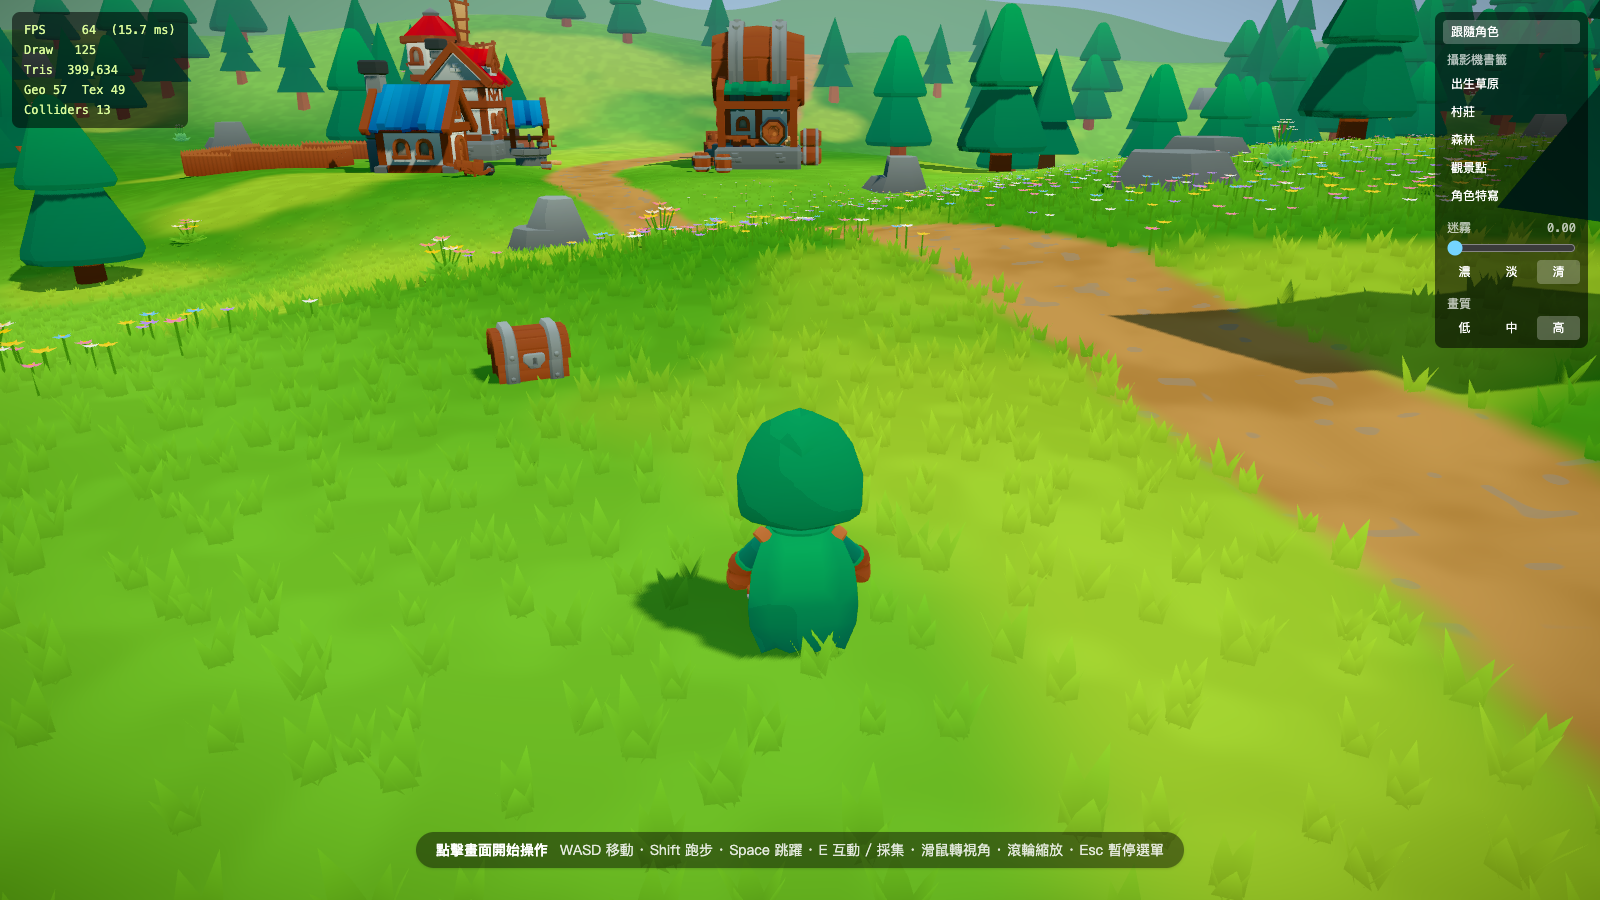
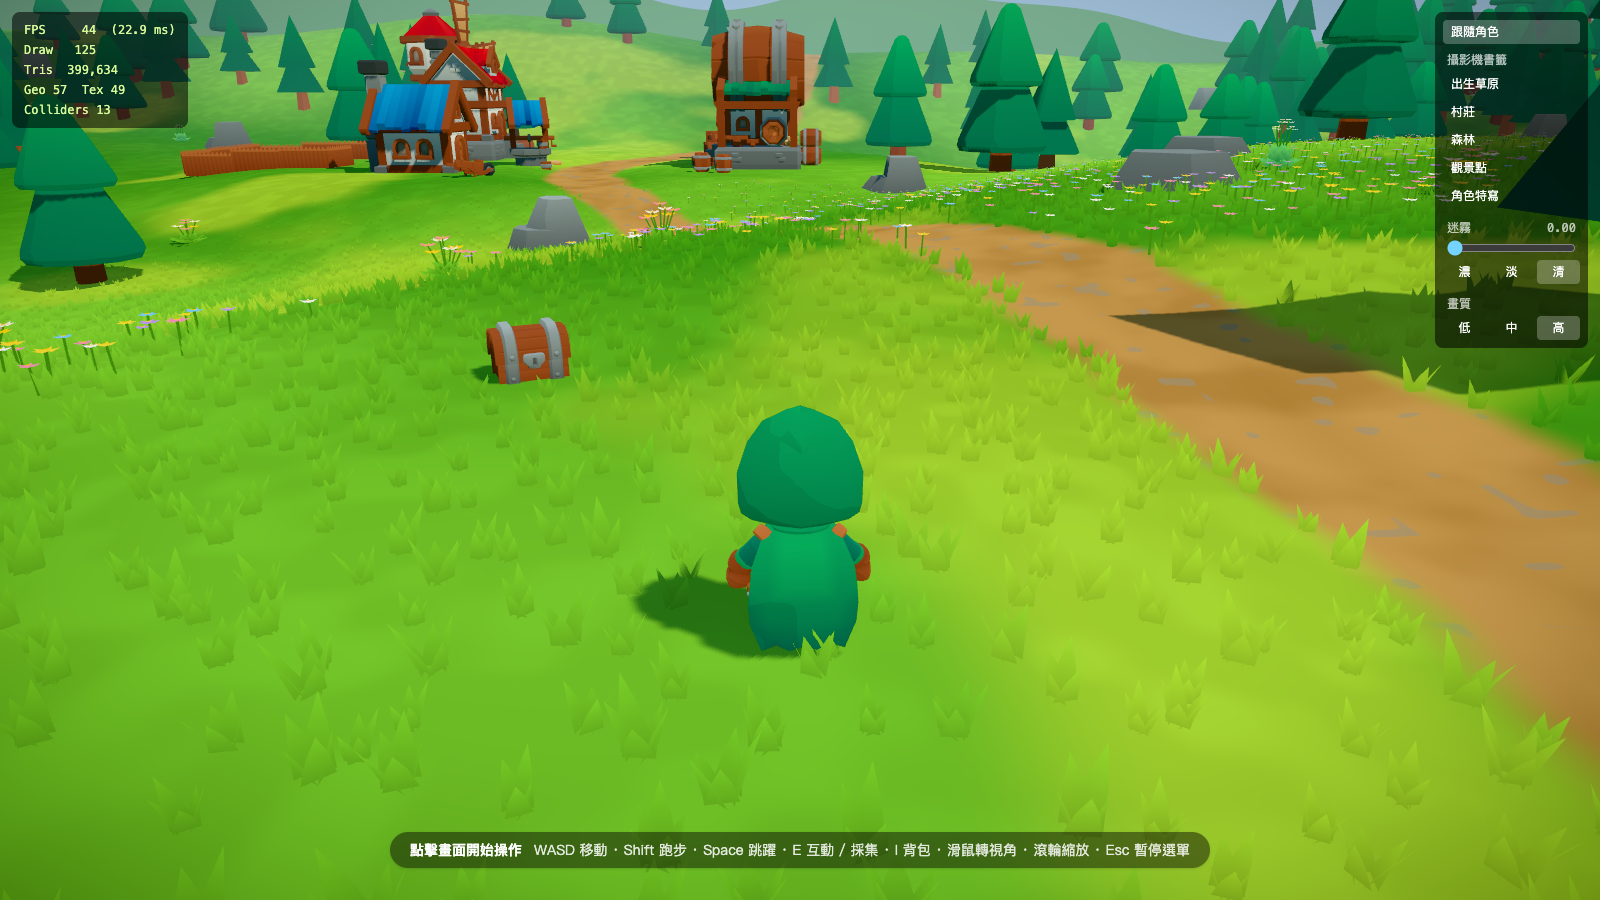
任務 2B：背包介面
- I / Tab 開關背包（依按鍵設定），Esc 關閉且不觸發暫停
- 24 格、圖示、數量與物品說明；開啟時釋放滑鼠、角色停止
- 端對端與截圖

diff --git a/src/ui/InventoryPanel.tsx b/src/ui/InventoryPanel.tsx
@@ -1,0 +1,126 @@
+import { useEffect, useState } from 'react';
+import type { InventorySlot } from '@/game-core/inventory/inventory';
+import { t } from '@/game/i18n';
+import { input } from '@/game/input/inputManager';
+import { currentScreen, useGameStore } from '@/game/state/gameStore';
+import { useGameStateStore } from '@/game/state/gameStateStore';
+import { useUiStore } from '@/game/state/uiStore';
+import { worldDataResult } from '@/game/worldData';
+import { ItemIcon } from './ItemIcon';
+
+const items = worldDataResult.ok ? worldDataResult.data.items : new Map();
+
+/**
+ * 背包（規格 6.3）：格子、圖示、數量、說明。I / Tab（可重新配置）開關，Esc 也可關閉。
+ * 開啟時釋放滑鼠、角色停止移動（isModalOpen）；只讀權威狀態，不直接修改背包。
+ */
+export function InventoryPanel() {
+  const open = useUiStore((s) => s.inventoryOpen);
+  const playing = useGameStore((s) => s.screen === 'playing');
+
+  useEffect(() => {
+    const onKey = (e: KeyboardEvent) => {
+      if (e.repeat) return;
+      const ui = useUiStore.getState();
+      if (ui.inventoryOpen && (e.code === 'Escape' || input.isBound(e.code, 'inventory'))) {
+        // 這個 Esc 只用來關背包，不要再讓暫停選單收到
+        e.stopImmediatePropagation();
+        ui.setInventoryOpen(false);
+        // 鍵盤事件屬於使用者手勢，可直接重新鎖定滑鼠回到遊玩
+        input.requestPointerLock();
+        return;
+      }
+      if (!input.isBound(e.code, 'inventory') || currentScreen() !== 'playing' || ui.message) return;
+      ui.setInventoryOpen(true);
+      if (document.pointerLockElement) document.exitPointerLock();
+    };
+    window.addEventListener('keydown', onKey);
+    return () => window.removeEventListener('keydown', onKey);
+  }, []);
+
+  // 暫停或回到主選單時關閉
+  useEffect(() => {
+    if (!playing) useUiStore.getState().setInventoryOpen(false);
+  }, [playing]);
+
+  if (!open) return null;
+  return <InventoryWindow />;
+}
+
+function InventoryWindow() {
+  const slots = useGameStateStore((s) => s.state.inventory.slots);
+  const [selected, setSelected] = useState<number | null>(null);
+  const close = () => useUiStore.getState().setInventoryOpen(false);
+  // 預設選取第一個有物品的格子
+  const index = selected ?? slots.findIndex((s) => s !== null);
+  const slot = index >= 0 ? (slots[index] ?? null) : null;
+  const def = slot ? items.get(slot.itemId) : undefined;
+
+  return (
+    <div className="absolute inset-0 flex items-center justify-center bg-black/25" onClick={close}>
+      <div
+        role="dialog"
+        aria-labelledby="inventory-title"
+        data-testid="inventory"
+        onClick={(e) => e.stopPropagation()}
+        className="flex gap-5 rounded-2xl border-4 border-amber-200 bg-amber-50 p-5 text-amber-950 shadow-2xl"
+      >
+        <div>
+          <h2 id="inventory-title" className="mb-3 text-xl font-bold">
+            {t('inventory.title')}
+          </h2>
+          <div className="grid grid-cols-6 gap-2">
+            {slots.map((s, i) => (
+              <SlotButton key={i} slot={s} active={i === index && s !== null} onSelect={() => setSelected(i)} />
+            ))}
+          </div>
+        </div>
+        <div className="flex w-56 flex-col" data-testid="inventory-detail">
+          {def && slot ? (
+            <>
+              <ItemIcon icon={def.icon} className="mx-auto mt-8 h-24 w-24" />
+              <h3 className="mt-3 text-center text-lg font-bold">{t(def.nameKey)}</h3>
+              <p className="text-center text-sm opacity-70">
+                {t(`inventory.category.${def.category}`)} · {t('inventory.owned')} {slot.count}
+              </p>
+              <p className="mt-3 text-sm leading-6">{t(def.descKey)}</p>
+            </>
+          ) : (
+            <p className="mt-16 text-center text-sm whitespace-pre-line opacity-60">{t('inventory.empty')}</p>
+          )}
+          <div className="mt-auto flex items-center justify-end gap-3 pt-4">
+            <span className="text-xs opacity-60">{t('inventory.closeHint')}</span>
+            <button type="button" onClick={close} className="rounded-full bg-amber-500 px-5 py-1.5 font-bold text-white hover:bg-amber-600">
+              {t('inventory.close')}
+            </button>
+          </div>
+        </div>
+      </div>
+    </div>
+  );
+}
+
+function SlotButton({ slot, active, onSelect }: { slot: InventorySlot; active: boolean; onSelect: () => void }) {
+  const def = slot ? items.get(slot.itemId) : undefined;
+  return (
+    <button
+      type="button"
+      data-testid="inventory-slot"
+      data-item={slot?.itemId ?? ''}
+      disabled={!slot}
+      onClick={onSelect}
+      onMouseEnter={slot ? onSelect : undefined}
+      title={def ? t(def.nameKey) : undefined}
+      className={`relative h-16 w-16 rounded-xl border-2 ${
+        active ? 'border-amber-500 bg-amber-200' : 'border-amber-200 bg-white/70'
+      } ${slot ? 'hover:border-amber-400' : ''}`}
+    >
+      {def && slot && (
+        <>
+          <ItemIcon icon={def.icon} className="absolute inset-1.5" />
+          <span className="absolute right-1 bottom-0.5 text-sm font-bold text-amber-950 [text-shadow:0_0_3px_white]">{slot.count}</span>
+        </>
+      )}
+    </button>
+  );
+}

diff --git a/src/game/state/uiStore.ts b/src/game/state/uiStore.ts
@@ -15,17 +15,21 @@ type UiState = {
   interactTarget: InteractTarget | null;
   message: UiMessage | null;
   toasts: readonly Toast[];
+  /** 背包視窗（規格 6.3） */
+  inventoryOpen: boolean;
   setInteractTarget: (target: InteractTarget | null) => void;
   showMessage: (message: UiMessage) => void;
   closeMessage: () => void;
   pushToast: (toast: Omit<Toast, 'id'>) => void;
   dismissToast: (id: number) => void;
+  setInventoryOpen: (open: boolean) => void;
 };
 
 export const useUiStore = create<UiState>((set, get) => ({
   interactTarget: null,
   message: null,
   toasts: [],
+  inventoryOpen: false,
   setInteractTarget: (target) => {
     if (get().interactTarget?.id === target?.id) return;
     set({ interactTarget: target });
@@ -34,9 +38,11 @@ export const useUiStore = create<UiState>((set, get) => ({
   closeMessage: () => set({ message: null }),
   pushToast: (toast) => set({ toasts: [...get().toasts, { ...toast, id: nextToastId++ }].slice(-MAX_TOASTS) }),
   dismissToast: (id) => set({ toasts: get().toasts.filter((t) => t.id !== id) }),
+  setInventoryOpen: (inventoryOpen) => set({ inventoryOpen }),
 }));
 
 /** 有任何會擋住遊玩的視窗開啟中（角色停止接受移動輸入、釋放滑鼠） */
 export function isModalOpen(): boolean {
-  return useUiStore.getState().message !== null;
+  const { message, inventoryOpen } = useUiStore.getState();
+  return message !== null || inventoryOpen;
 }

diff --git a/src/app/App.tsx b/src/app/App.tsx
@@ -11,6 +11,7 @@ import { DebugPanel } from '@/ui/DebugPanel';
 import { ErrorOverlay } from '@/ui/ErrorOverlay';
 import { FatalScreen } from '@/ui/FatalScreen';
 import { InteractPrompt } from '@/ui/InteractPrompt';
+import { InventoryPanel } from '@/ui/InventoryPanel';
 import { MessageDialog } from '@/ui/MessageDialog';
 import { PauseMenu } from '@/ui/PauseMenu';
 import { PerfPanel } from '@/ui/PerfPanel';
@@ -51,6 +52,7 @@ export function App() {
         </>
       )}
       <MessageDialog />
+      <InventoryPanel />
       <TitleScreen />
       <PauseMenu />
       <ErrorOverlay />

diff --git a/src/game/state/gameStore.ts b/src/game/state/gameStore.ts
@@ -29,6 +29,7 @@ export const useGameStore = create<GameState>((set, get) => ({
       // 新遊戲：世界物件與角色回到初始狀態（Phase 2 改為「新遊戲 / 讀取存檔」）
       authority.replaceState(initialGameState());
       useUiStore.getState().closeMessage();
+      useUiStore.getState().setInventoryOpen(false);
       playerRuntime.newGameRequest = true;
       Object.assign(cameraRuntime, { yaw: 0, pitch: 0.35, distance: 6 });
       set({ screen: next, session: session + 1 });

diff --git a/src/game/input/inputManager.ts b/src/game/input/inputManager.ts
@@ -49,6 +49,11 @@ class InputManager {
     };
   }
 
+  /** 這個按鍵代碼是否綁定到指定動作（UI 以鍵盤事件直接處理的動作使用，例如開關背包）。 */
+  isBound(code: string, action: ActionId): boolean {
+    return this.lookup.get(code)?.includes(action) === true;
+  }
+
   isDown(action: ActionId): boolean {
     for (const code of this.downCodes) {
       if (this.lookup.get(code)?.includes(action)) return true;
